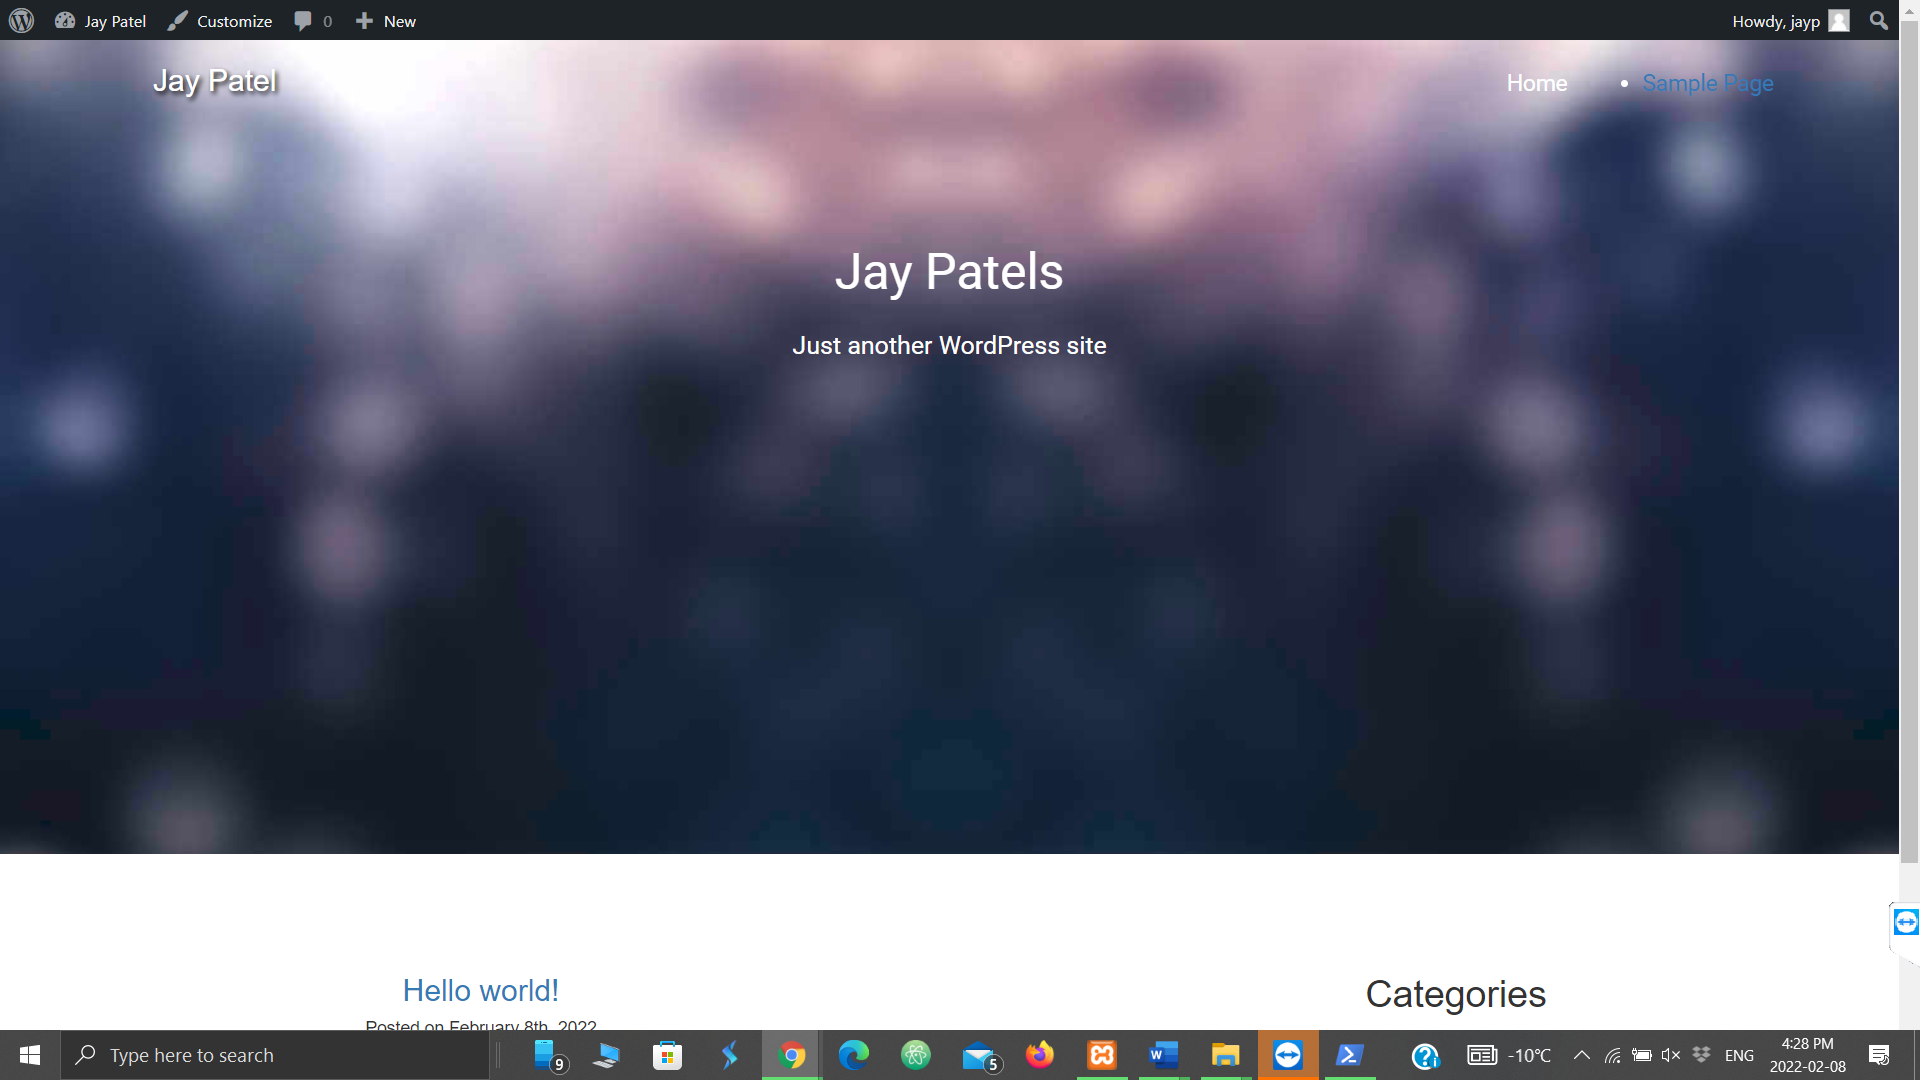
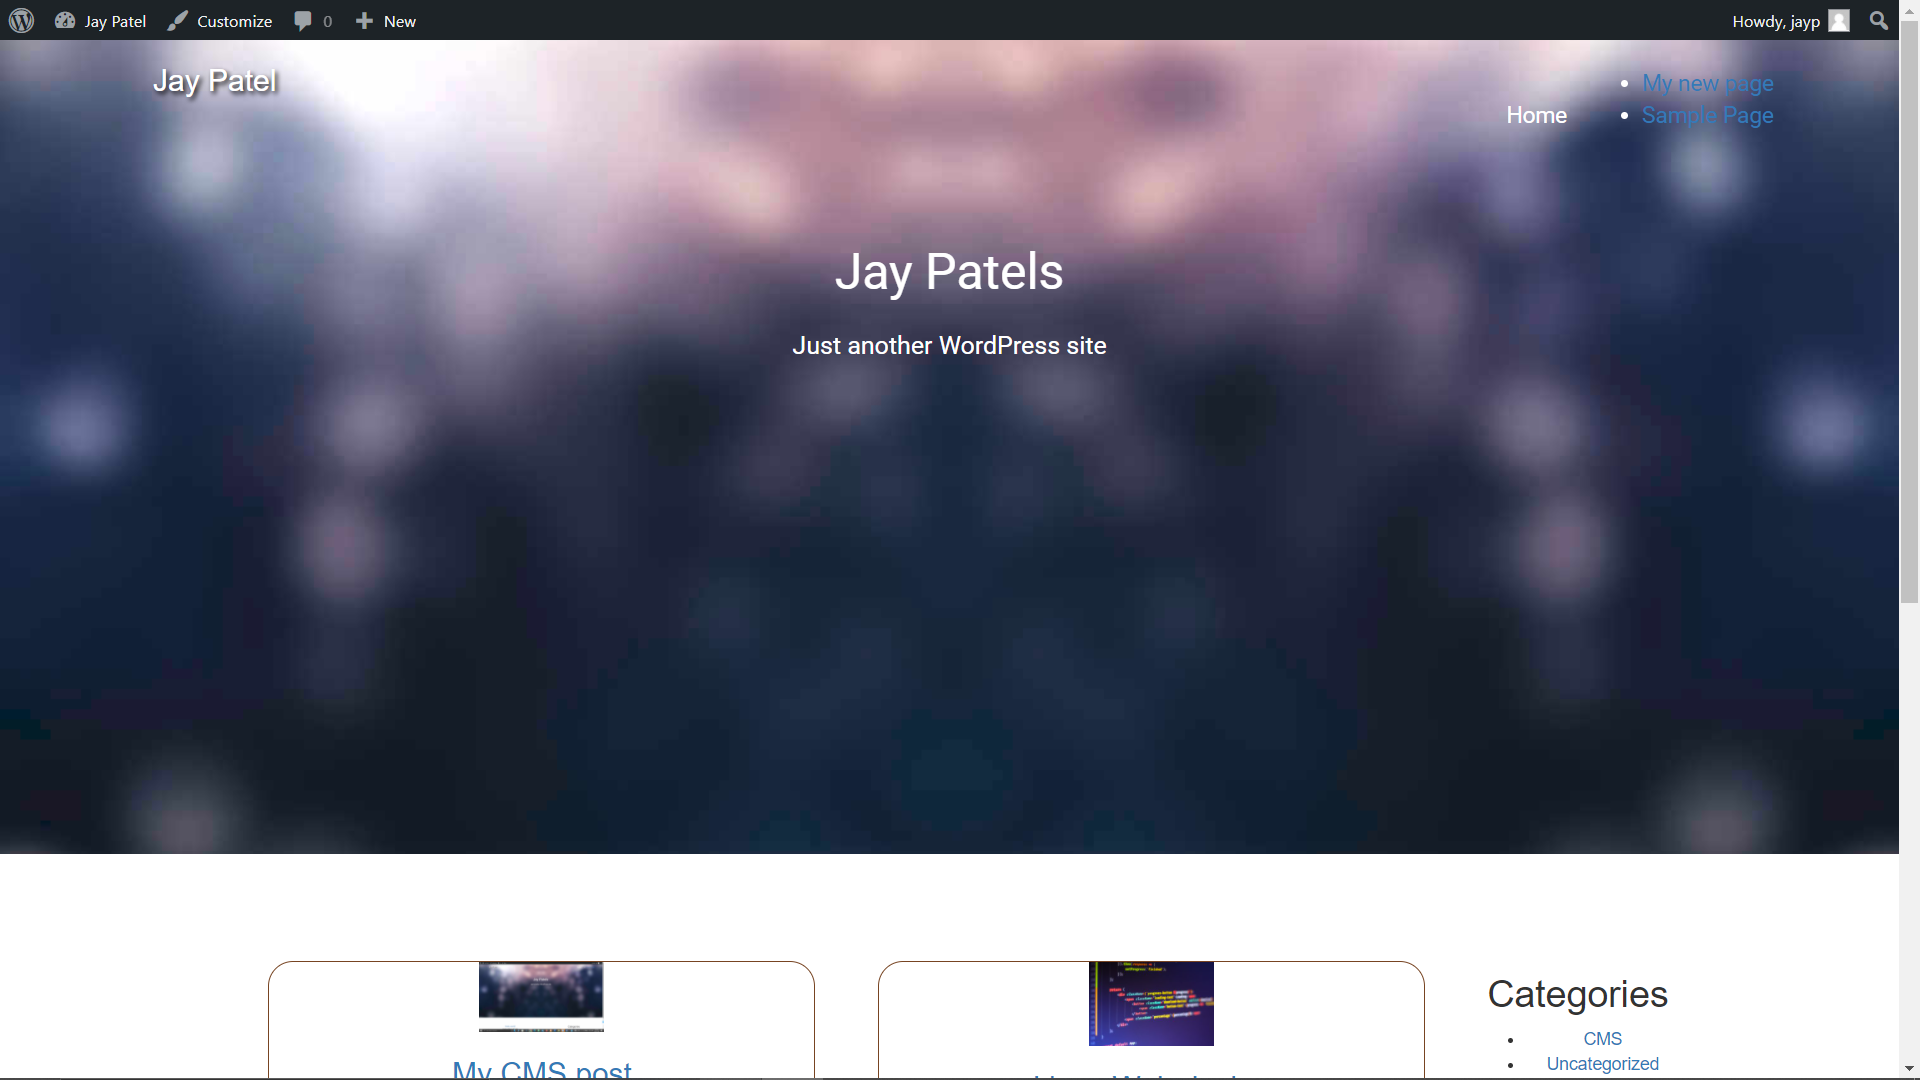
done

diff --git a/style.css b/style.css
@@ -22,3 +22,8 @@ with others.
 */
 
 .downloadButton,.navBarMenuItem{color:#fff;display:inline-block}.button,.downloadButton,.section_1{text-align:center}.downloadButton,.dropdown_list{text-decoration:none;font-size:16px}.footerNavTabItem,.navBarMenuItem,.section_5_icon>figcaption{font-family:Roboto,sans-serif;font-weight:100}body,html{position:relative;margin:0!important;padding:0!important;width:100%!important;top:0!important;overflow-x:hidden!important;min-width:320px}.section_1{background-image:url(https://res.cloudinary.com/shubhi/image/upload/v1480270389/background_e4c1fy.jpg);width:100%;height:683px;background-repeat:no-repeat;background-size:cover;position:relative}.logoImage{padding-top:2%;padding-left:8%;float:left}.overlayImage{position:absolute;bottom:-4px;width:100%}.navBar{height:54px}.navBarMenu{float:right;padding-top:3%;padding-right:6%}.navBarMenuItem{font-size:18px;padding:8px}.downloadButton{background-color:#4CAF50;border:4px solid rgba(47,79,79,.3);border-radius:4px;padding:15px 32px;margin:4px 2px;cursor:pointer}.button{padding-top:1%}.material-icons{vertical-align:middle}.dropdown{width:300px;left:50%;margin-left:-150px;position:absolute}.dropdown_content{display:none;background-color:#f9f9f9;width:330px;left:50%;margin-left:-16px;box-shadow:0 8px 16px 0 rgba(0,0,0,.2);padding:12px 16px;border-radius:4px;z-index:200}.dropdown:hover .dropdown_content{display:block;background-color:#f1f1f1}.dropdown_header{font-size:16px;font-family:Roboto,sans-serif;color:#878787}.dropdown_list{font-family:Roboto,sans-serif;color:#444}.drop_links{text-decoration:none!important;padding:4px}.dropdown_content_left{left:0;text-align:left;vertical-align:top;position:relative;width:45%}.center_align,.section_2,.section_3,.section_5,div.desc{text-align:center}.dropdown_content_right{vertical-align:top;right:0!important;width:45%!important}.divider{background:#ddd;width:1.5px;height:160px;margin-top:20px}.section_2{width:100%;padding:5% 6% 5% 8%}.clearfix:after{content:"";display:table;clear:both}.display_inline,.footerNavTabItem{display:inline-block}*{box-sizing:border-box}.quote{width:100%!important}.quote_symbol{color:#b3b2b2!important;font-size:35px!important;width:5%!important;height:100%!important}.section_3{width:60%;margin:0 auto}.section_4{padding-top:2%;padding-bottom:4%}.userLogo{padding-right:30%}.section_5{height:258px;padding:3.5%;width:100%;background:url(https://res.cloudinary.com/shubhi/image/upload/v1480270389/section_5_background_byll96.jpg);background-size:cover}.section_5_icon{padding:2%}.section_5_icon>figcaption{color:#b3b2b2;position:relative;font-size:12px;margin-top:35%}.footerNavTabItem{font-size:16px;color:#989797;text-decoration:underline}.v_align{vertical-align:super}@media only screen and (min-width :320px){.logoImage{padding-top:6%;padding-left:8%;float:left}.overlayImage{display:none}.navBarMenu{float:right;padding-top:8%;padding-right:6%}.navBarMenuItem{display:inline-block;font-size:18px;font-family:Roboto,sans-serif;font-weight:100;color:#444;padding:8px}.section_1_heading,.section_1_sub{color:#fff;font-family:Roboto,sans-serif;font-weight:100}.footerNavTab,.footerText{float:left;padding-left:8%}.section_1_heading{font-size:30px;margin-top:0;padding-top:30%}.section_1_sub{font-size:16px;line-height:.7}.section_2_col{width:100%}.icons,.quote{width:30%}.section_2_heading{font-size:24px;color:#303030;font-family:Roboto,sans-serif;font-weight:100}.section_2_sub{font-size:16px;color:#6D6D6D;font-family:Roboto,sans-serif;font-weight:100;line-height:1.3}.section_3_5_heading,.section_4_heading,.section_4_sub{color:#303030;font-family:Roboto,sans-serif;font-weight:100}.section_3_5_heading{font-size:24px;margin-bottom:0!important}.section_4_heading{font-size:14px;text-align:left}.section_4_sub{font-size:12px;line-height:1.3}.quote{font-size:16px;font-family:Roboto,sans-serif;color:#6D6D6D;font-weight:100;word-wrap:break-word}.footer{background-color:#E3E3E3;height:84px;width:100%}.footerNavTab{font-family:Roboto,sans-serif;font-weight:100;font-size:18px;padding-top:2%}.footerText{font-family:Roboto,sans-serif;font-weight:100;font-size:16px;color:#989797}}@media only screen and (min-width :480px){.logoImage{padding-top:6%;padding-left:8%;float:left}.overlayImage{display:none}.navBarMenu{float:right;padding-top:8%;padding-right:6%}.navBarMenuItem{display:inline-block;font-size:18px;font-family:Roboto,sans-serif;font-weight:100;color:#444;padding:8px}.section_1_heading,.section_1_sub{color:#fff;font-family:Roboto,sans-serif;font-weight:100}.footerNavTab,.footerText{float:left;padding-left:8%}.section_1_heading{font-size:30px;margin-top:0;padding-top:30%}.section_1_sub{font-size:16px;line-height:.7}.section_2_col{width:100%}.section_2_heading{font-size:24px;color:#303030;font-family:Roboto,sans-serif;font-weight:100}.section_2_sub{font-size:16px;color:#6D6D6D;font-family:Roboto,sans-serif;font-weight:100;line-height:1.3}.section_3_5_heading,.section_4_heading,.section_4_sub{color:#303030;font-family:Roboto,sans-serif;font-weight:100}.section_3_5_heading{font-size:24px;margin-top:0!important}.section_4_heading{font-size:16px;text-align:left}.section_4_sub{font-size:14px;line-height:1.3}.icons{width:30%}.quote{font-size:16px;font-family:Roboto,sans-serif;color:#6D6D6D;font-weight:100;word-wrap:break-word}.footer{background-color:#E3E3E3;height:84px;width:100%}.footerNavTab{font-family:Roboto,sans-serif;font-weight:100;font-size:18px;padding-top:2%}.footerText{font-family:Roboto,sans-serif;font-weight:100;font-size:16px;color:#989797}}@media only screen and (min-width :520px){.navBarMenuItem,.section_1_heading,.section_1_sub,.section_2_heading{font-family:Roboto,sans-serif;font-weight:100}.overlayImage{display:block}.logoImage{padding-top:2%;padding-left:8%;float:left}.navBarMenu{float:right;padding-top:3%;padding-right:6%}.navBarMenuItem{display:inline-block;font-size:18px;color:#fff;padding:8px}.section_1_heading{font-size:40px;color:#fff;margin-top:0;padding-top:8%}.section_1_sub{font-size:20px;color:#fff;line-height:.7}.section_2_col{float:left;width:28%;margin:2%}.section_2_heading{font-size:24px;color:#303030}.section_2_sub{font-size:16px;color:#6D6D6D;font-family:Roboto,sans-serif;font-weight:100;line-height:1.3}.section_3_5_heading,.section_4_heading,.section_4_sub{color:#303030;font-family:Roboto,sans-serif;font-weight:100}.section_3_5_heading{font-size:24px;margin-top:0!important}.section_4_heading{font-size:18px;text-align:left}.section_4_sub{font-size:16px;line-height:1.3}.icons{width:30%}.quote{font-size:18px;font-family:Roboto,sans-serif;color:#6D6D6D;font-weight:100;line-height:1.5;word-wrap:break-word}.footer{background-color:#E3E3E3;height:54px;width:100%}.footerNavTab{font-family:Roboto,sans-serif;font-weight:100;font-size:16px;float:left;padding-top:1%;padding-left:8%}.footerText{font-family:Roboto,sans-serif;font-weight:100;font-size:14px;color:#989797;float:right;padding-right:8%}}@media only screen and (min-width :992px){.navBarMenuItem,.section_1_heading,.section_1_sub,.section_2_heading,.section_2_sub,.section_3_5_heading,.section_4_heading{font-family:Roboto,sans-serif;font-weight:100}.overlayImage{display:block}.logoImage{padding-top:2%;padding-left:8%;float:left}.navBarMenu{float:right;padding-top:3%;padding-right:6%}.navBarMenuItem{display:inline-block;font-size:18px;color:#fff;padding:8px}.section_1_heading{font-size:40px;color:#fff;margin-top:0;padding-top:8%}.section_1_sub{font-size:20px;color:#fff;line-height:.7}.section_2_col{float:left;width:28%;margin:2%}.section_2_heading{font-size:24px;color:#303030}.section_2_sub{font-size:16px;color:#6D6D6D;line-height:1.3}.section_3_5_heading{font-size:24px;color:#303030;margin-top:0!important}.section_4_heading{font-size:18px;color:#303030;text-align:left}.section_4_sub{font-size:16px;color:#303030;font-family:Roboto,sans-serif;font-weight:100;line-height:1.3}.footerNavTab,.quote{font-size:18px;font-family:Roboto,sans-serif;font-weight:100}.icons{width:30%}.quote{color:#6D6D6D;line-height:1.5;word-wrap:break-word}.footer{background-color:#E3E3E3;height:54px;width:100%}.footerNavTab{float:left;padding-top:1%;padding-left:8%}.footerText{font-family:Roboto,sans-serif;font-weight:100;font-size:16px;color:#989797;float:right;padding-right:8%}}@media only screen and (min-width :1200px){.navBarMenuItem,.section_1_heading,.section_1_sub,.section_2_heading,.section_2_sub,.section_3_5_heading,.section_4_heading{font-family:Roboto,sans-serif;font-weight:100}.overlayImage{display:block}.logoImage{padding-top:2%;padding-left:8%;float:left}.navBarMenu{float:right;padding-top:3%;padding-right:6%}.navBarMenuItem{display:inline-block;font-size:18px;color:#fff;padding:8px}.section_1_heading{font-size:40px;color:#fff;margin-top:0;padding-top:8%}.section_1_sub{font-size:20px;color:#fff;line-height:.7}.section_2_col{float:left;width:28%;margin:2%}.section_2_heading{font-size:24px;color:#303030}.section_2_sub{font-size:16px;color:#6D6D6D;line-height:1.3}.section_3_5_heading{font-size:32px;color:#303030;margin-top:0!important}.section_4_heading{font-size:18px;color:#303030}.section_4_sub{font-size:16px;color:#303030;font-family:Roboto,sans-serif;font-weight:100;line-height:1.3}.footerNavTab,.quote{font-size:18px;font-family:Roboto,sans-serif;font-weight:100}.icons{width:30%}.quote{color:#6D6D6D;line-height:1.5;word-wrap:break-word}.footer{background-color:#E3E3E3;height:54px;width:100%}.footerNavTab{float:left;padding-top:1%;padding-left:8%}.footerText{font-family:Roboto,sans-serif;font-weight:100;font-size:16px;color:#989797;float:right;padding-right:8%}}
+.post-body{
+  border: 1px solid #742;
+  border-radius:20px;
+  margin:10px;
+}

diff --git a/index.php b/index.php
@@ -5,19 +5,19 @@
   <section class="section_2">
     <div class="container">
       <div id="ttr_main" class="row">
-        <div id="ttr_content" class="col-lg-8 col-sm-8 col-md-8 col-xs-12">
+        <div id="ttr_content" class="col-lg-10 col-sm-10 col-md-8 col-xs-12">
 
           <div class="row">
             <?php if (have_posts()) : while (have_posts()) : the_post(); ?>
               <div class="col-lg-6 col-sm-6 col-md-6 col-xs-12 border">
                 <div class="card">
-                  <div class="card-body border">
+                  <div class="card-body border post-body">
 
                     <?php set_post_thumbnail_size( 100, 100); ?>
                     <?php the_post_thumbnail(); ?>
                     <h3><a href="<?php the_permalink(); ?>" title="<?php the_title_attribute(); ?>"><?php the_title(); ?></a></h3>
                     <h5>Posted on <?php the_time('F jS, Y') ?></h5>
-                    <p><?php the_content(__('(more...)')); ?></p>
+                    <p><?php the_excerpt(__('(more...)')); ?></p>
                   </div>
                 </div>
 

diff --git a/functions.php b/functions.php
@@ -6,6 +6,17 @@ function wpb_custom_new_menu() {
 add_action( 'init', 'wpb_custom_new_menu' );
 
 add_theme_support( 'post-thumbnails' );
+// Changing excerpt length
+function new_excerpt_length($length) {
+return 50;
+}
+add_filter('excerpt_length', 'new_excerpt_length');
+
+// Changing excerpt more
+function new_excerpt_more($more) {
+return '...';
+}
+add_filter('excerpt_more', 'new_excerpt_more');
 
 function themename_custom_logo_setup() {
     $defaults = array(

diff --git a/sidebar.php b/sidebar.php
@@ -1,4 +1,4 @@
-<div id="ttr_sidebar" class="col-lg-4 col-md-4 col-sm-4 col-xs-12">
+<div id="ttr_sidebar" class="col-lg-2 col-md-2 col-sm-2 col-xs-12">
   <h2 ><?php _e('Categories'); ?></h2>
   <ul > <?php wp_list_cats('sort_column=namonthly'); ?> </ul>
   <h2 ><?php _e('Archives'); ?></h2>
